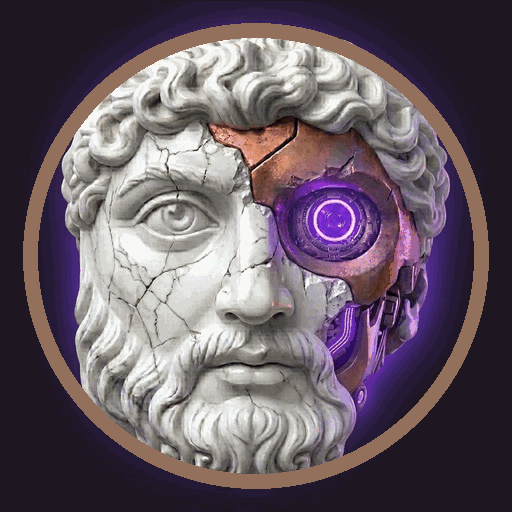
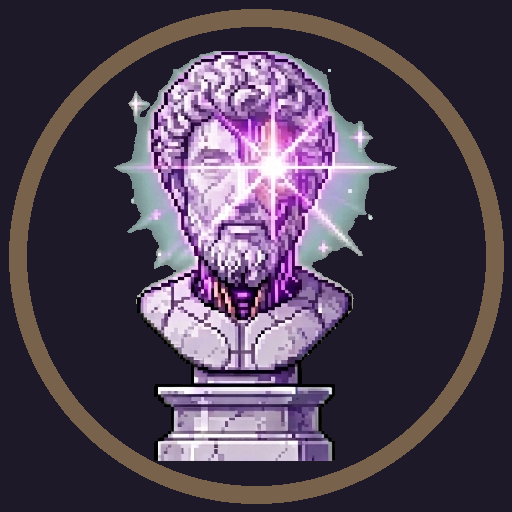
feat(puerta,iconos): todos entran por la pantalla de idioma · y el icono viejo se va
1 · LA PWA YA NO SE SALTA LA PUERTA. Hasta hoy `index.html` hacia
`location.replace` cuando la app estaba instalada y habia lengua guardada: quien
mas usaba el producto era justo quien no volvia a ver esta pantalla. Se retira
por decision del Soberano -- web, PWA y app entran todos por aqui.

No es maqueta: en un producto de ocho lenguas la eleccion no es un ajuste, es la
primera frase. Y a quien mas la usa es a quien menos conviene esconderle el
cambio de idioma.

SE CONSERVA EL RECUERDO, que era la mitad util del atajo: la lengua guardada se
MARCA --anillo de oro y punto, no solo color, que quien no distingue el dorado
se quedaria sin saber cual era la suya-- asi que volver a la de siempre es un
toque. Se recuerda sin decidir por ti, que es la diferencia entre una comodidad
y una puerta cerrada. Verificado con `pt` guardado: se queda en la puerta y
marca Portugues con `aria-current`.

2 · EL ICONO VIEJO, FUERA. `icon-192`, `icon-512` e `icon-512-maskable` eran la
cara frontal realista; ahora llevan el busto de pixel del README, escalado con
NEAREST y con el aro de bronce del canon. El `maskable` va con MUCHO mas margen
--22 % contra 10 %-- porque el sistema recorta hasta un circulo interior del
80 % y lo que toque el borde se pierde.

Y se retiran tres duplicados muertos --`icono-192`, `icono-512`,
`icono-512-maskable`-- que llevaban la misma cara vieja y no los referenciaba
NADIE: comprobado fichero por fichero antes de borrar. Quedan sin referenciar y
[…]

diff --git a/public/index.html b/public/index.html
@@ -111,6 +111,13 @@
   .bubble:hover, .bubble:focus { transform:translateY(-3px) scale(1.03); outline:0;
     background:var(--violeta-texto) }
   .bubble:focus-visible { outline:2px solid var(--oro); outline-offset:2px }
+  /* LA TUYA SE MARCA, no se elige por ti. Es lo que queda del atajo que hasta
+     hoy saltaba esta pantalla: volver a la lengua de siempre es un toque, y
+     aun asi la puerta se ve. Se dice con ORO y con anillo, no solo con color:
+     quien no distingue el dorado se queda sin saber cual era la suya. */
+  .bubble.tuya { box-shadow:0 0 0 2px var(--oro), 0 10px 26px rgba(36,26,53,.35) }
+  .bubble.tuya::after { content:'\2022'; position:absolute; top:.25rem; right:.5rem;
+    color:var(--oro); font-size:1.1rem; line-height:1 }
   .bubble:nth-child(4n+1){animation-delay:0s}
   .bubble:nth-child(4n+2){animation-delay:-1.4s}
   .bubble:nth-child(4n+3){animation-delay:-2.8s}
@@ -204,17 +211,27 @@
                   matchMedia('(display-mode: fullscreen)').matches ||
                   navigator.standalone === true;
 
-  /* LA SALIDA VA ANTES QUE EL ATAJO, y no es un detalle: sin ella, elegir mal
-     una vez te encierra en esa lengua para siempre -- la puerta que sirve para
-     cambiar de idioma seria justo la que ya no puedes ver. El gate lo exige
-     por escrito, y tenia razon: el primer intento redirigia sin escape.
-     `/?cambiar` es esa salida, y es la direccion que usan los selectores de
-     idioma de dentro. */
+  /* 2026-09-07 · YA NO SE SALTA LA PUERTA, tampoco en la app instalada.
+     Hasta hoy, la PWA con idioma guardado hacia `location.replace` y nadie
+     volvia a ver esta pantalla. Se retira por decision del Soberano: todos
+     entran por aqui -- web, PWA y app.
+
+     No es un capricho de maqueta. Esta pantalla es lo primero que dice de que
+     va esto, y en un producto de ocho lenguas la eleccion no es un ajuste, es
+     la primera frase. Ademas la que se salta la puerta es justo la persona que
+     mas la usa, que es a quien menos conviene esconderle el cambio de lengua.
+
+     LO QUE SE CONSERVA ES EL RECUERDO, que era la mitad util del atajo: la
+     lengua guardada se marca, asi que volver a la de siempre es UN toque en
+     vez de buscarla entre ocho. Se recuerda sin decidir por ti, que es la
+     diferencia entre una comodidad y una puerta cerrada.
+
+     `instalada` se queda declarado aunque ya no redirija: lo lee el aviso de
+     mas abajo, y borrarlo aqui obligaria a redescubrir como se detecta la PWA. */
   var suya = guardado(LENGUA);
-  if (instalada && suya && /^[a-z]{2}$/.test(suya) &&
-      location.search.indexOf('cambiar') < 0) {
-    location.replace('/' + suya + '/');
-    return;                       // no se pinta nada: nos vamos
+  if (suya && /^[a-z]{2}$/.test(suya)) {
+    var mia = document.querySelector('.bubble[hreflang="' + suya + '"]');
+    if (mia) { mia.setAttribute('aria-current', 'true'); mia.classList.add('tuya'); }
   }
 
   /* La eleccion se guarda al pulsar. Y tambien se guarda sola en cada portada
